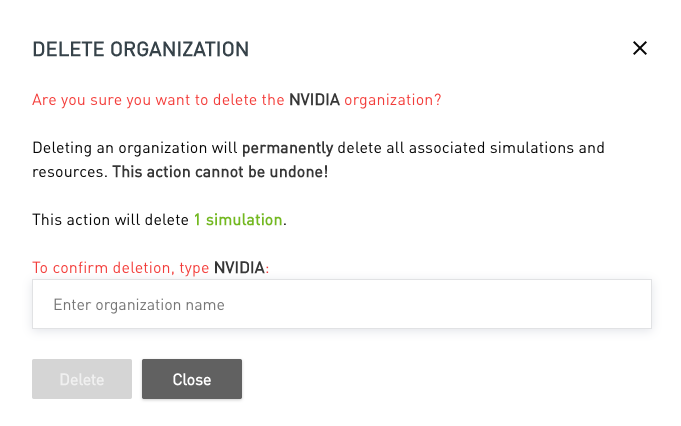
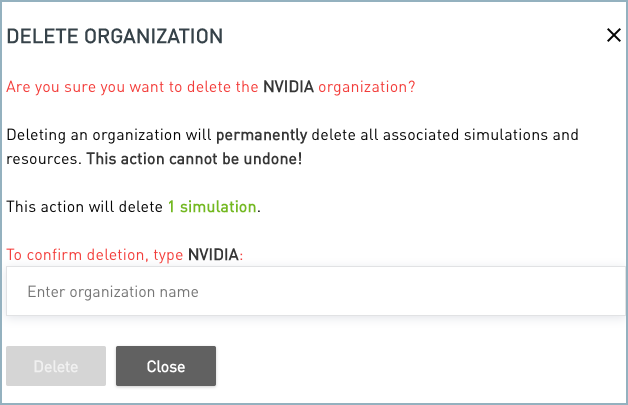
more edits

Changed region(s): [[0.0, 0.0, 1.0, 1.0]]

diff --git a/content/guides/nvidia-air/Organizations.md b/content/guides/nvidia-air/Organizations.md
@@ -17,35 +17,37 @@ In the simulation list, the **ORGANIZATION** column shows the organization to wh
 
 <div style="margin-top: 20px;"></div>
 
-To assign a simulation to an organization, click the Edit icon to open the **EDIT SIMULATION** dialog. Select the organization from the **ORGANIZATIONS** dropdown menu.
+To assign a simulation to an organization, click the **Edit** icon to open the **EDIT SIMULATION** dialog. Select the organization from the **ORGANIZATIONS** dropdown menu.
 
 {{<img src="/images/guides/nvidia-air/EditSim.png" width="400px">}}
 
 ## Manage Organizations
 
-If you are an Organization Administrator, you can create and manage organizations, and view details about each organization, such as the list of current members and their roles. You can also view the resource utilization for all simulations in the organization.
+If you are an Organization Administrator, you can create and manage organizations, and view details about each organization, such as the list of current members and their roles. You can also view resource utilization for all simulations in the organization.
 
-To see the list of current organizations, click **Organization List** from the **ORGANIZATION** dropdown in the left pane.
+To see the list of current organizations, click **Organization List** from the **ORGANIZATIONS** dropdown in the left pane.
 
 {{<img src="/images/guides/nvidia-air/OrgList.png">}}
 
 <div style="margin-top: 20px;"></div>
 
-On the Organizations page, you can create new organizations, and drill down to see details and manage a specifc organization.
+On the Organizations page, you can create and delete organizations, and drill down to see details and manage a specifc organization.
 
 ### Create an Organization
 
 To create an organization, click the **Create Organization** button to open the Create Organization dialog.
 
-{{<img src="/images/guides/nvidia-air/AddOrg.png">}}
+{{<img src="/images/guides/nvidia-air/AddOrg.png" width="600px">}}
 
-Provide a name for the organization and the email address of each member you want to add. If you want a member to to be an administrator, click **Organization Admin** so that the button turns green.
+<div style="margin-top: 20px;"></div>
+
+Provide a name for the organization and the email address of each member you want to add. If you want a member to be an administrator, click **ORGANIZATION ADMIN** so that the button turns green.
 
 ### Delete an Organization
 
 To delete an organization, select the **Delete** option from the actions menu.
 
-{{<img src="/images/guides/nvidia-air/DeleteOrg.png">}}
+{{<img src="/images/guides/nvidia-air/DeleteOrg.png" width="600px">}}
 
 {{%notice info%}}
 Deleting an organization also deletes all the simulations and resources assigned to it.
@@ -53,12 +55,13 @@ Deleting an organization also deletes all the simulations and resources assigned
 
 ### View Details and Manage Members
 
-To view details about each organization and to manage members, click the organization link in the Organization column to open the organization details page.
+To view details about each organization and to manage members, click the organization link in the **Organization** column to open the organization details page.
 
 {{<img src="/images/guides/nvidia-air/OrgDetails.png">}}
 
 <div style="margin-top: 20px;"></div>
 
-- To add a new member, click the **Members** link, then click the **Add Member** button. In the Add Members dialog, provide the email address of the member you want to add. If you want the member to to be an administrator, click **Organization Admin** so that the button turns green.
+- To view usage statistics for an organization, click the **Usage** link. You can see how many simulations are in the organization and how much CPU, memory, and disk storage the organization uses.
+- To add a new member, click the **Members** link, then click the **Add Member** button. In the Add Members dialog, provide the email address of the member you want to add. If you want the member to be an administrator, click **ORGANIZATION ADMIN** so that the button turns green.
 - To edit resource limits for a member such as CPU, memory, and storage and the number of simulations allowed, select **Edit Membership** from the actions menu.
 - To remove a member, select **Remove Member** from the actions menu. Removing a member from an organization also moves all their simulations out of the organization.

diff --git a/content/guides/nvidia-air/Quick-Start.md b/content/guides/nvidia-air/Quick-Start.md
@@ -70,7 +70,7 @@ The nodes list in the advanced view shows the status, number of CPUs, and amount
 
 #### Services
 
-Use the Services pane in the advanced view to create an external connection into the simulation if you prefer to access the simulation environment using your local preferred SSH client, run Grafana on the [oob-mgmt-server](## "Out-of-band Management Server") and access the Grafana GUI externally, or set up SNMP polling from your local laptop into the simulation environment.
+Use the Services pane in the advanced view to create an external connection into the simulation. You can access the simulation environment using your local preferred SSH client, run Grafana on the [oob-mgmt-server](## "Out-of-band Management Server") and access the Grafana GUI externally, or set up SNMP polling from your local laptop into the simulation environment.
 
 To set up a service:
 1. Click the **+ Add Service** button to open the Service dialog:
